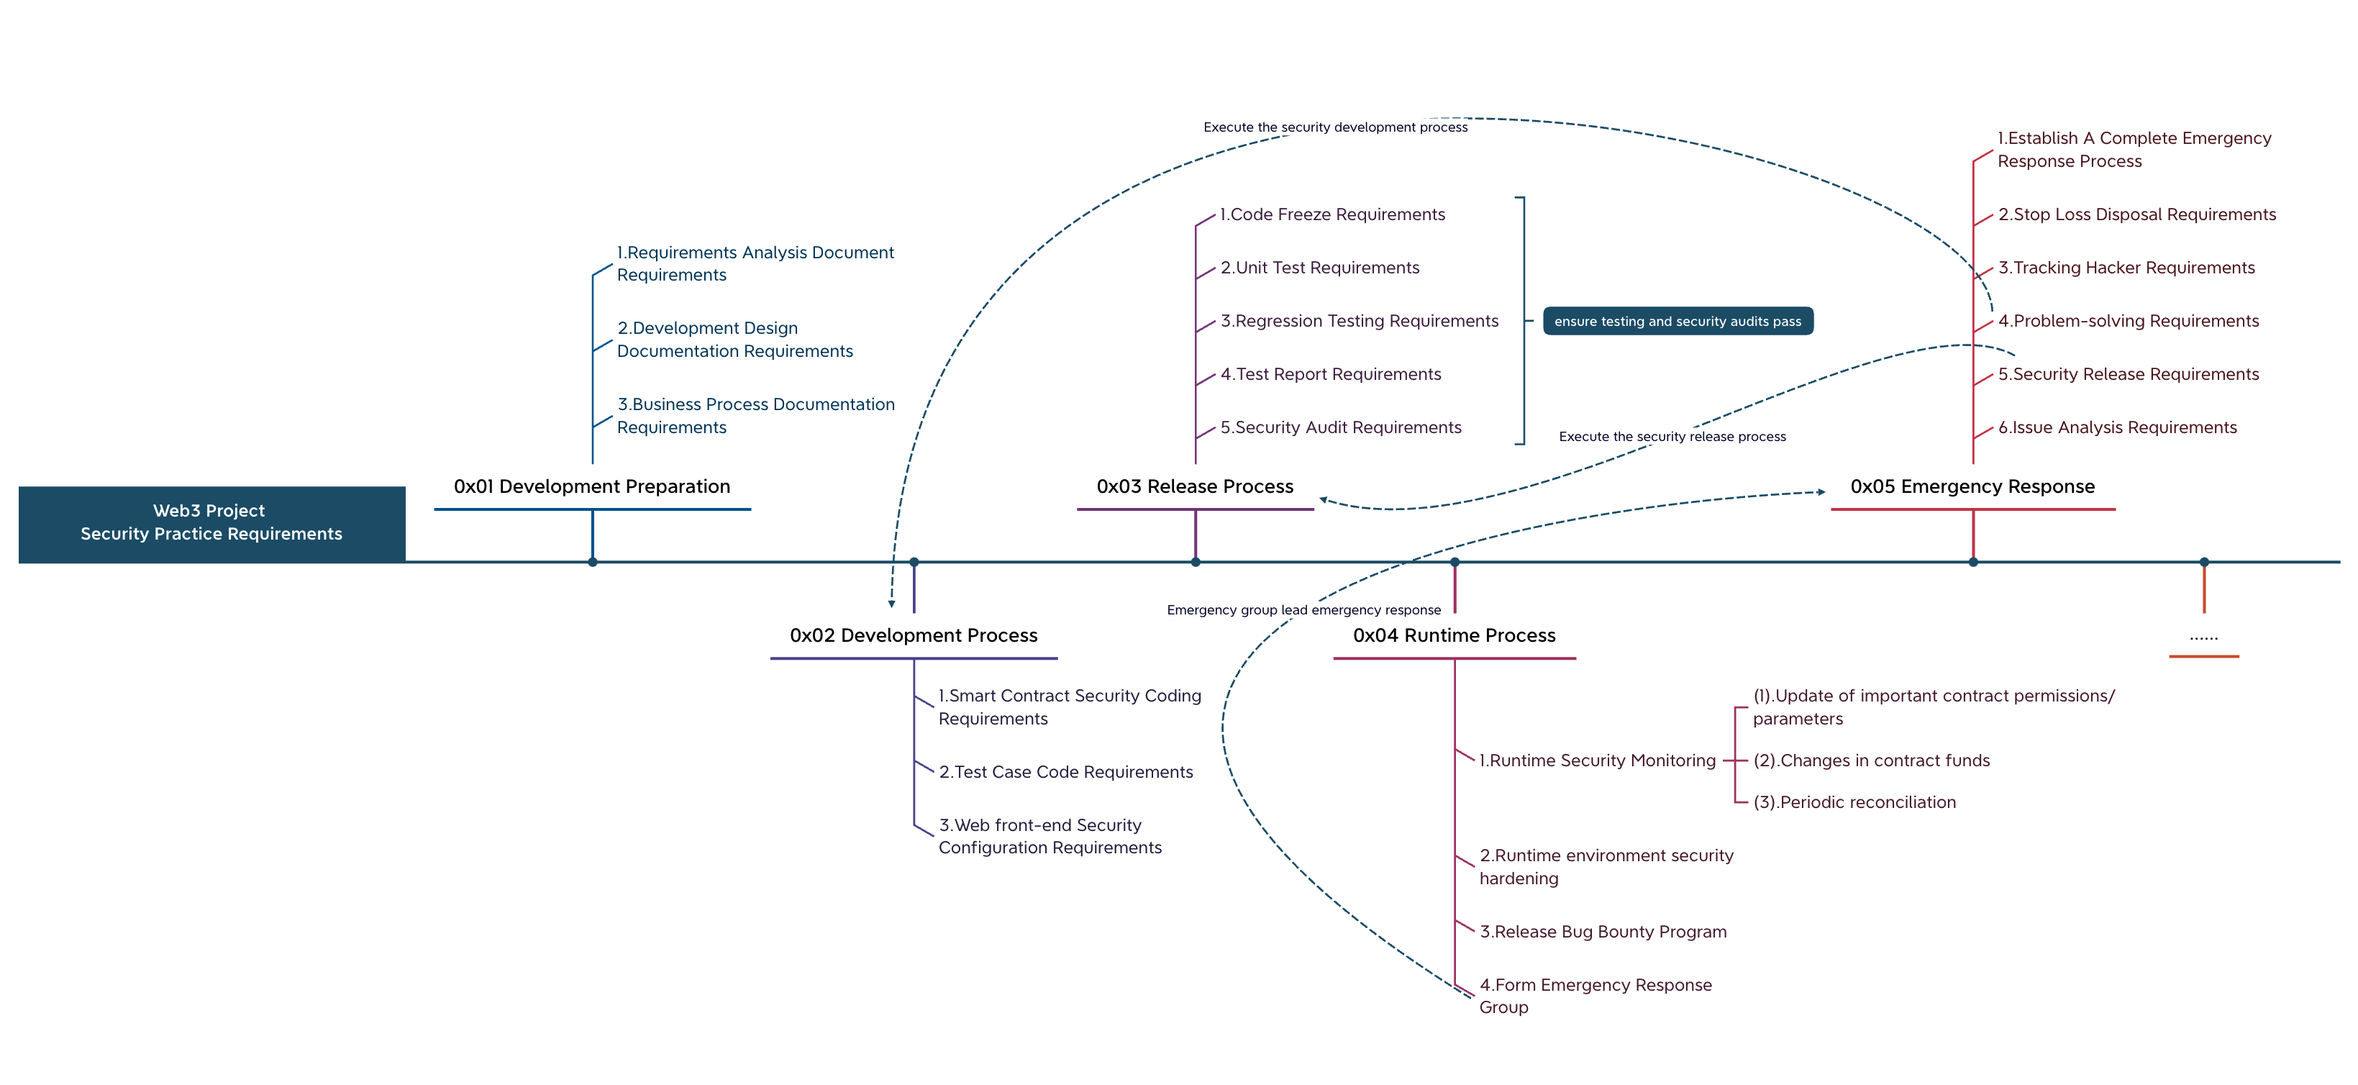
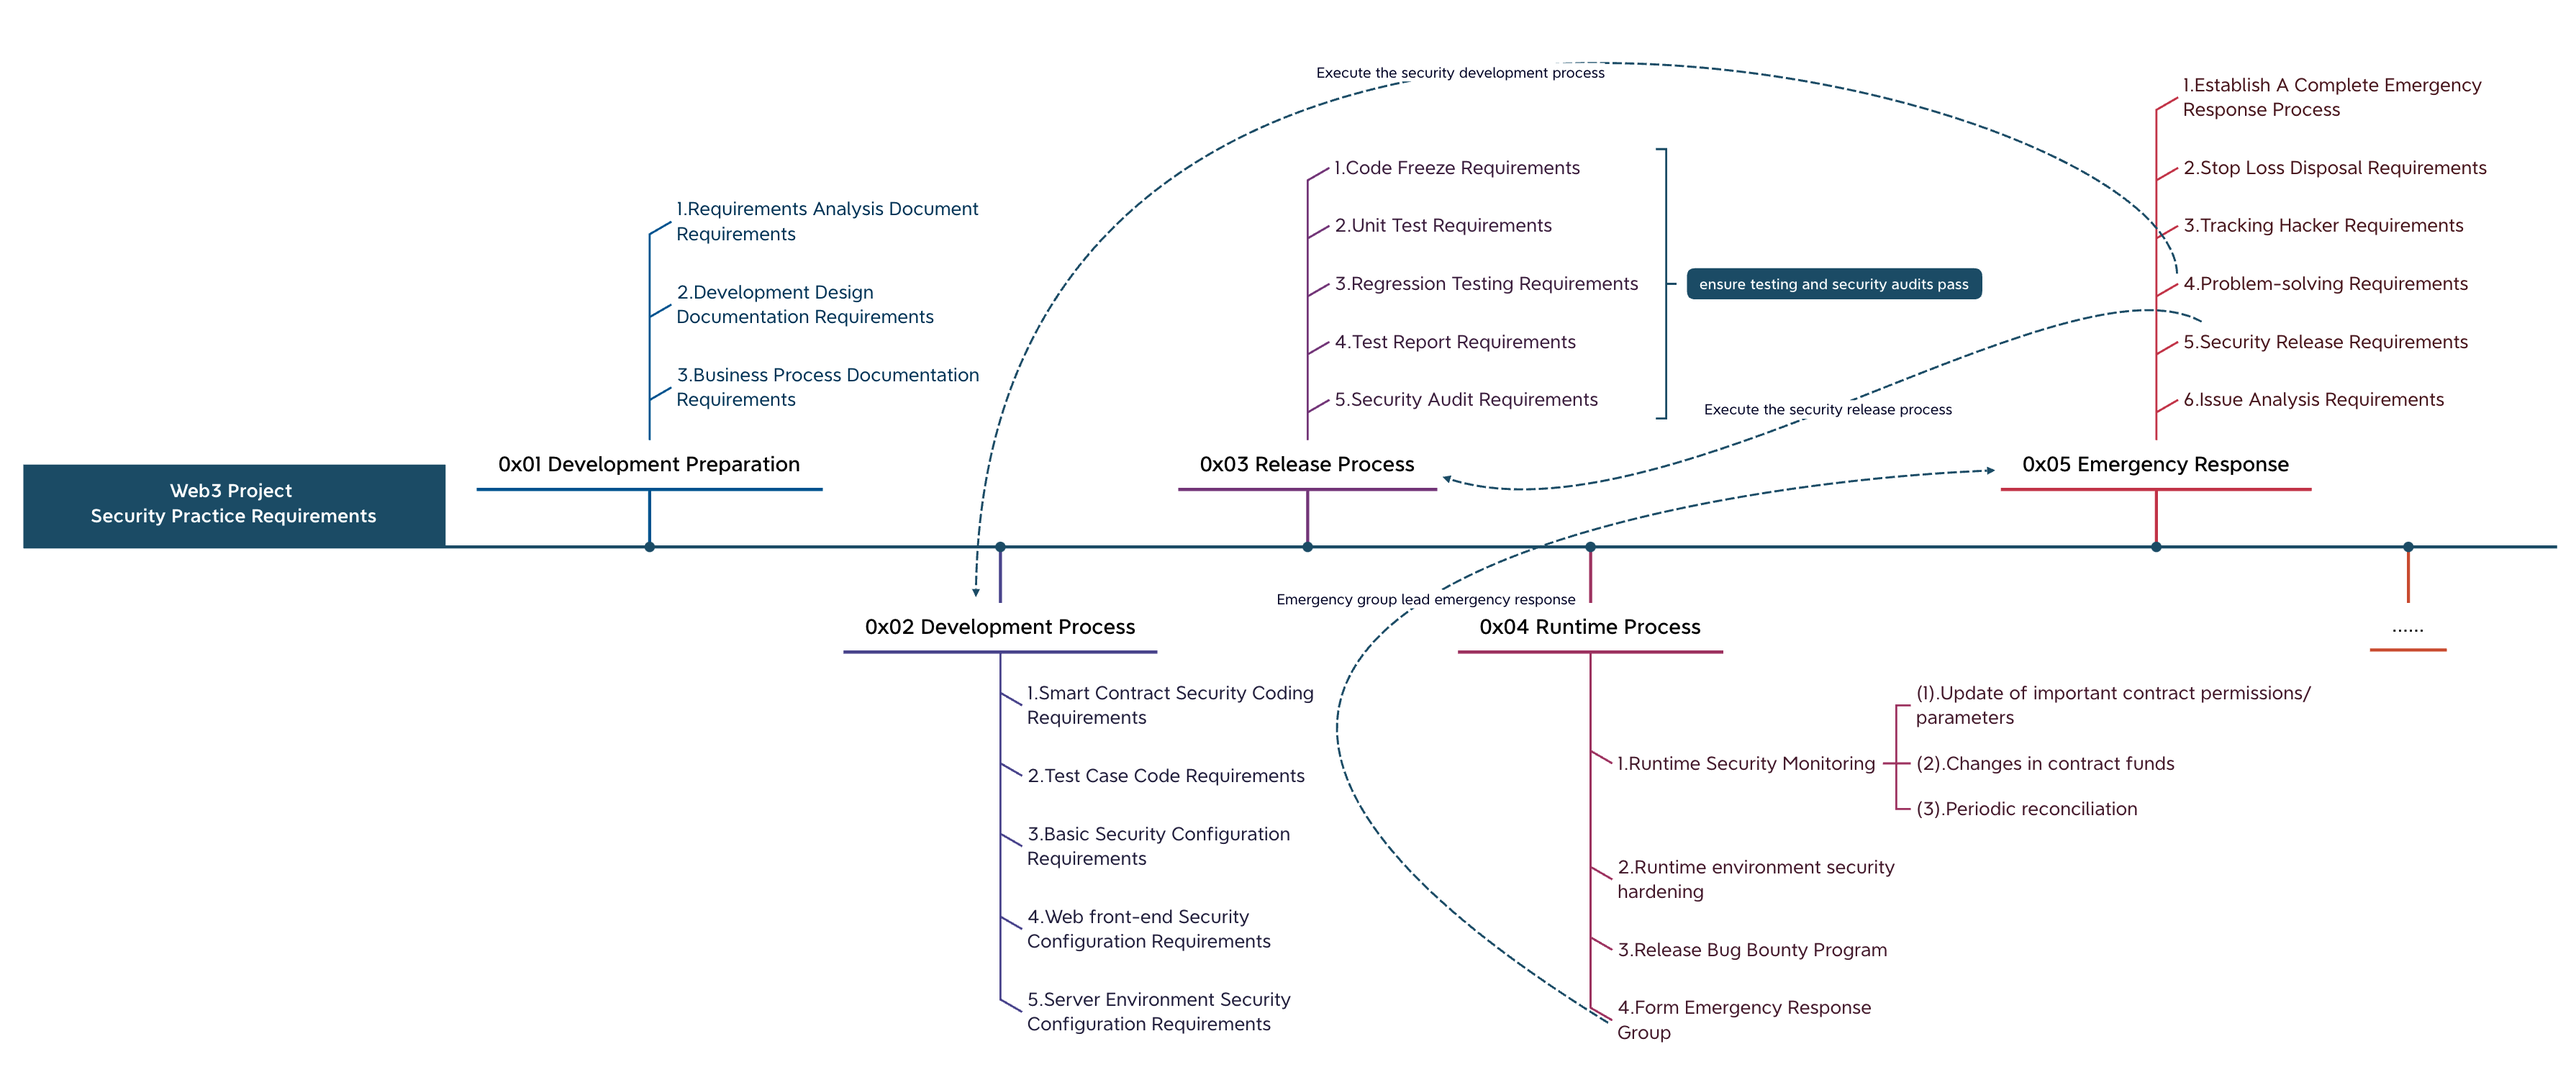
update

diff --git a/README.md b/README.md
@@ -74,7 +74,16 @@ Therefore, the SlowMist security team has open-sourced **`Web3 Project Security 
 - Make sure to include business process/function functional usability testing;
 - Make sure that the unit test coverage rate is more than 95%, and the core code coverage rate must reach 100%;
 
-### 3. Web front-end Security Configuration Requirements
+### 3. Basic Security Configuration Requirements
+
+- Make sure that the official email uses well-known service providers, such as Gmail;
+- Make sure that the official email account opens MFA function;
+- Make sure that the use of well-known domain name service providers, such as GoDaddy;
+- Make sure that the use of excellent CDN service providers, such as Akamai and Cloudflare;
+- Make sure that DNS configuration turns on DNSSec, set a strong password for the management account on the domain name service management platform, and turn on MFA authentication;
+- Make sure that all mobile phones and computer devices use anti-virus software, such as Kaspersky, AVG, etc.;
+
+### 4. Web front-end Security Configuration Requirements
 
 - Make sure that the HTTP communication of the whole site adopts HTTPS;
 - Make sure HSTS is configured to prevent man-in-the-middle attacks like: DNS hijacking, BGP hijacking,see：[HSTS Configuration Introduction](https://developer.mozilla.org/en-US/docs/Web/HTTP/Headers/Strict-Transport-Security);
@@ -86,6 +95,13 @@ Therefore, the SlowMist security team has open-sourced **`Web3 Project Security 
 - Make sure that the referenced third-party resources are restricted by the integrity attribute, so as to avoid the third-party being hacked and the project's site from being affected, see：[SRI Configuration Introduction](https://developer.mozilla.org/zh-CN/docs/Web/Security/Subresource_Integrity);
 - Make sure CORS is properly configured to only allow the specified origin domain, protocol and port to access the project's resources, see: [CORS Configuration Introduction](https://developer.mozilla.org/zh-CN/docs/Web/HTTP/CORS);
 - Make sure that the addEventListener/postMessage implemented in the business has the origin and target of the check message, see：[postMessage Configuration Introduction](https://developer.mozilla.org/zh-CN/docs/Web/API/Window/postMessage);
+
+### 5. Server Environment Security Configuration Requirements
+- Make sure that the selection of excellent cloud server providers, such as AWS, Google Cloud, etc.;
+- Make sure that the cloud platform management account used by the project uses a strong password and turns on MFA;
+- Make sure that the security reinforcement of the server before the project code is deployed to the server, such as installing HIDS, using SSH Key to log in, setting SSH login alert, setting SSH login google-auth, etc.;
+- Make sure that the use of professional software monitoring services and server availability, such as APM and Zabbix;
+- Make sure the use of professional institutions to regularly test the safety of projects, such as SlowMist, Trail of Bits, etc.;
 
 ## 0x03 Release Process
 

diff --git a/README_zh_CN.md b/README_zh_CN.md
@@ -73,7 +73,17 @@
 - 确保包含业务流程/函数功能可用性测试；
 - 确保包含单元测试覆盖率95%以上，核心代码覆盖率要达到100%；
 
-### 3. Web 前端安全配置要求
+### 3. 基础安全配置要求
+
+- 确保官方邮箱使用知名服务商，如 Gmail；
+- 确保官方邮箱账号强制开启 MFA 功能；
+- 确保使用知名域名服务商，如 GoDaddy；
+- 确保域名服务商平台的账号开启 MFA 安全配置；
+- 确保使用优秀的 CDN 服务提供商，如 Akamai、Cloudflare；
+- 确保 DNS 配置开启了 DNSSec，在域名服务管理平台上为管理账号设置强口令并开启 MFA 认证；
+- 确保全员的手机和电脑设备使用杀毒软件，如卡巴斯基、AVG等；
+
+### 4. Web 前端安全配置要求
 
 - 确保全站的 HTTP 通讯采用 HTTPS；
 - 确保配置了HSTS，以防止中间人攻击，如：DNS hijacking，BGP hijacking，参考：[HSTS 配置介绍](https://developer.mozilla.org/en-US/docs/Web/HTTP/Headers/Strict-Transport-Security)；
@@ -85,6 +95,14 @@
 - 确保引用的第三方资源使用了 integrity 属性进行限制，避免第三方被黑导致项目方的站点受到影响，参考：[SRI 配置介绍](https://developer.mozilla.org/zh-CN/docs/Web/Security/Subresource_Integrity)；
 - 确保正确配置 CORS，仅允许指定 origin 域，协议和端口访问项目的资源，参考：[CORS 配置介绍](https://developer.mozilla.org/zh-CN/docs/Web/HTTP/CORS)；
 - 确保业务中实现的 addEventListener/postMessage 有检查消息的 origin 和 target，参考：[postMessage 安全介绍](https://developer.mozilla.org/zh-CN/docs/Web/API/Window/postMessage)；
+
+### 5. 后端环境安全配置要求
+
+- 确保选用优秀的云服务器提供商，如：AWS、Google云等；
+- 确保项目使用到的云平台管理账号使用强口令并开启 MFA 认证；
+- 确保项目代码部署到服务器前对服务器进行安全加固，如：安装 HIDS，采用 SSH Key 进行登录，设置 SSH 登录 alert，设置 SSH 登录 google-auth 等；
+- 确保使用专业软件监控服务、服务器可用性，如 APM、Zabbix；
+- 确保使用专业的机构定期测试项目安全性，如 SlowMist、Trail of Bits等；
 
 ## 0x03 发布过程
 
